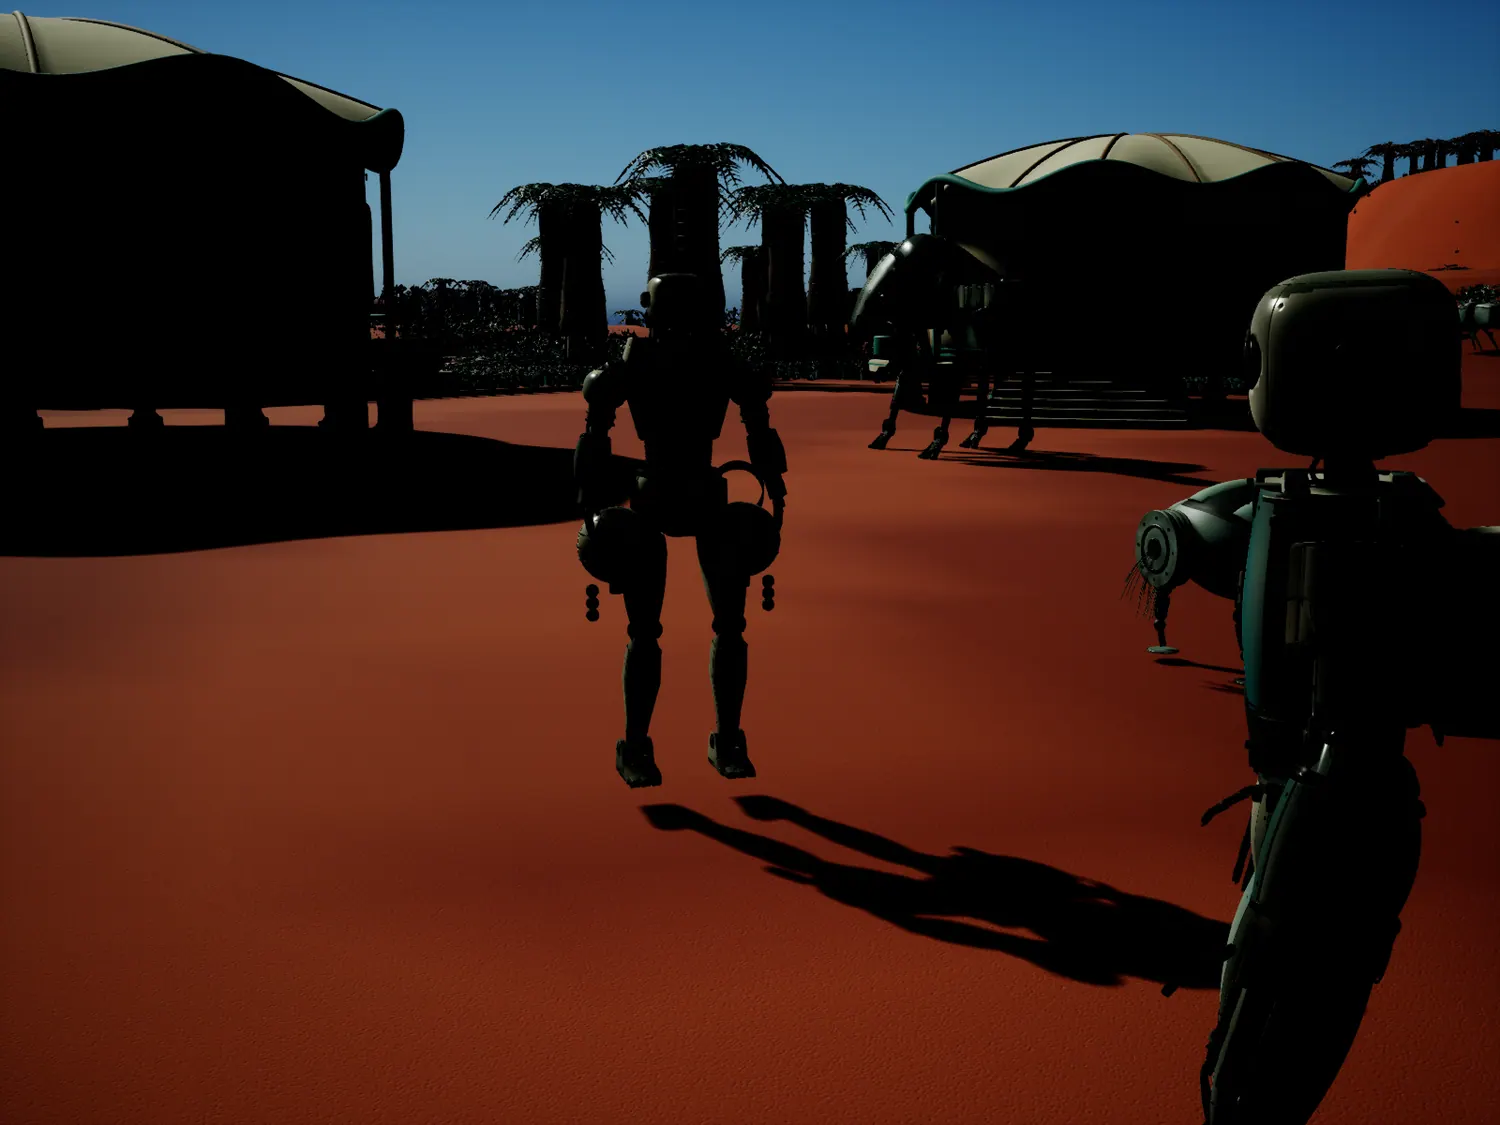
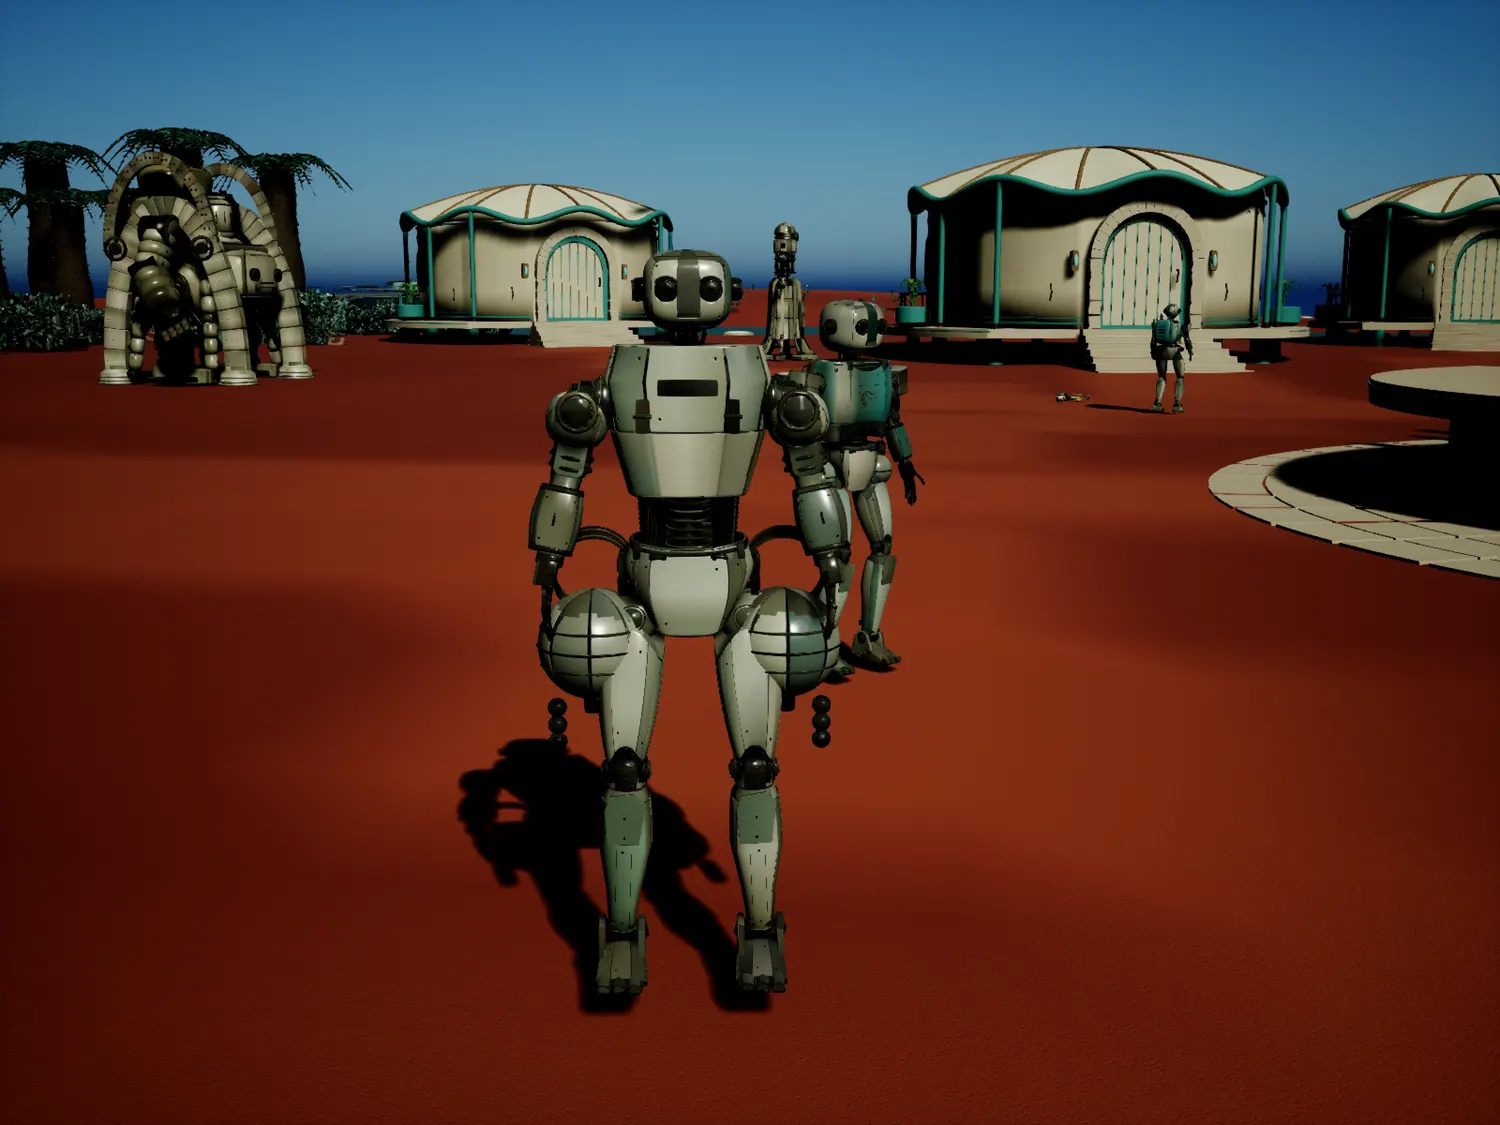
Besseres Licht auf der Karte und ein Gruppenbild: alle 52 Körper winken

diff --git a/index.html b/index.html
@@ -153,6 +153,13 @@ dialog::backdrop{background:rgba(4,8,10,.86);backdrop-filter:blur(6px)}
 .d-blaettern{display:flex;justify-content:space-between;gap:1rem;margin-top:2rem;padding-top:1.2rem;border-top:1px solid var(--linie)}
 .d-blaettern button{font-family:var(--mono);font-size:.7rem;letter-spacing:.1em;text-transform:uppercase;color:var(--text2)}
 .d-blaettern button:hover{color:#fff}
+/* Gruppenbild über die ganze Breite */
+.gruppenbild{margin:2rem 0 0}
+.gruppenbild .bild-rahmen{display:block}
+.gruppenbild img{width:100%;cursor:zoom-in}
+.gruppenbild .ki{right:clamp(10px,2vw,24px);bottom:clamp(10px,2vw,22px)}
+.gruppenbild figcaption{font-family:var(--mono);font-size:.72rem;line-height:1.6;color:var(--text2);
+  max-width:var(--maxw);margin:.9rem auto 0;padding:0 clamp(16px,4vw,48px)}
 /* Bildergalerien */
 .galerie{display:grid;grid-template-columns:repeat(auto-fit,minmax(300px,1fr));gap:clamp(12px,1.6vw,20px)}
 .galerie figure{margin:0;display:flex;flex-direction:column}
@@ -189,7 +196,7 @@ dialog::backdrop{background:rgba(4,8,10,.86);backdrop-filter:blur(6px)}
 <body>
 <div class="hintergrund"><div class="koernung"></div></div>
 <header class="nav"><a class="marke" href="#start">Figuren<span>schau</span></a><nav>
-<a href="#aufstellung">Aufstellung</a><a href="#figuren">Alle Figuren</a><a href="#karte">Auf der Karte</a>
+<a href="#aufstellung">Aufstellung</a><a href="#alle">Alle zusammen</a><a href="#figuren">Alle Figuren</a><a href="#karte">Auf der Karte</a>
 <a href="#werkzeug">Werkzeuge</a><a href="#werkstatt">Werkstatt</a><a href="#stand">Stand</a>
 <a class="zurueck" href="https://marsandhope.github.io/">Mars &amp; Hope →</a></nav></header>
 <main>
@@ -241,6 +248,28 @@ auf dem Boden stehen. Tillus überragt die Reihe um mehr als das Zehnfache desse
 </div>
 </section>
 
+<section class="abschnitt" id="alle">
+<div class="innen abschnitt-kopf reveal">
+<p class="kicker">Alle zusammen</p>
+<h2>Einmal antreten, bitte</h2>
+<div class="lesen"><p>Einmal alle auf einem Bild: zweiundfünfzig Körper, in sechs Reihen nach Größe
+aufgestellt, die Kleinsten vorn, Tillus und die großen Rahmen hinten – und alle winken. Wer keinen
+Winke-Clip besitzt, zeigt die Bewegung, die er hat: Tillus fährt den Kranarm aus, RIEGEL klappt die
+Deflektoren, CANTOR staunt, MORA sieht sich um.</p>
+<p>Zusammengesetzt ist daran nichts. Eine Kamera, eine Aufnahme, aufgestellt und ausgelöst im laufenden
+Editor, auf demselben Boden, auf dem die Figuren auch im Spiel stehen. FUNKE fehlt in der Reihe, weil er
+LUMENs Körper trägt und dort schon steht.</p></div>
+</div>
+<figure class="gruppenbild reveal">
+<span class="bild-rahmen"><img loading="lazy" src="bilder/karte/gruppe.webp"
+ alt="Alle zweiundfünfzig gebauten Körper stehen in sechs Reihen vor dem Dorf der Gezeitenflechter und winken"
+ data-gross="bilder/karte/gruppe.webp" data-text="Alle zweiundfünfzig Körper vor dem Dorf der Gezeitenflechter">
+<span class="ki" title="KI-generiertes Bild">KI</span></span>
+<figcaption>Zweiundfünfzig Körper vor dem Dorf der Gezeitenflechter, sechs Reihen nach Größe · eine Aufnahme aus dem
+laufenden Unreal-Editor auf L_Mars_Drei_Doerfer_V7</figcaption>
+</figure>
+</section>
+
 <section class="abschnitt" id="figuren">
 <div class="innen">
 <div class="abschnitt-kopf reveal">
@@ -271,7 +300,10 @@ Ein Klick öffnet die vier Ansichten, das Originalblatt daneben und alles, was d
 <div class="lesen"><p>Diese sechs Aufnahmen stammen nicht aus einem Renderstudio, sondern aus dem laufenden
 Editor: die Figuren stehen zwischen den Kuppeln auf <span class="mono">L_Mars_Drei_Doerfer_V7</span>,
 mit dem Boden unter den Füßen, den sie auch im Spiel haben. Ein Lauf von fünfundsiebzig Sekunden hat für
-siebenunddreißig Bewohnersteuerungen Wegstrecken, Ankünfte und Bodenkontakt mitgeschrieben.</p></div>
+siebenunddreißig Bewohnersteuerungen Wegstrecken, Ankünfte und Bodenkontakt mitgeschrieben.</p>
+<p>Für die Aufnahme dreht sich jede Figur zur Kamera, und die Kamera geht dorthin, wo die tiefe
+Nachmittagssonne herkommt. Vorher stand sie gegen das Licht – dann waren die Figuren schwarze
+Umrisse vor einem schönen Himmel.</p></div>
 </div>
 <div class="galerie reveal"><figure><span class="bild-rahmen"><img loading="lazy" src="bilder/karte/Unreal_aren.webp" alt="AREN auf der Dorfkarte in Unreal" data-gross="bilder/karte/Unreal_aren.webp" data-text="AREN auf L_Mars_Drei_Doerfer_V7"><span class="ki" title="KI-generiertes Bild">KI</span></span><figcaption>AREN auf L_Mars_Drei_Doerfer_V7</figcaption></figure><figure><span class="bild-rahmen"><img loading="lazy" src="bilder/karte/Unreal_ion.webp" alt="ION auf der Dorfkarte in Unreal" data-gross="bilder/karte/Unreal_ion.webp" data-text="ION auf L_Mars_Drei_Doerfer_V7"><span class="ki" title="KI-generiertes Bild">KI</span></span><figcaption>ION auf L_Mars_Drei_Doerfer_V7</figcaption></figure><figure><span class="bild-rahmen"><img loading="lazy" src="bilder/karte/Unreal_rhea.webp" alt="RHEA auf der Dorfkarte in Unreal" data-gross="bilder/karte/Unreal_rhea.webp" data-text="RHEA auf L_Mars_Drei_Doerfer_V7"><span class="ki" title="KI-generiertes Bild">KI</span></span><figcaption>RHEA auf L_Mars_Drei_Doerfer_V7</figcaption></figure><figure><span class="bild-rahmen"><img loading="lazy" src="bilder/karte/Unreal_riegel.webp" alt="RIEGEL auf der Dorfkarte in Unreal" data-gross="bilder/karte/Unreal_riegel.webp" data-text="RIEGEL auf L_Mars_Drei_Doerfer_V7"><span class="ki" title="KI-generiertes Bild">KI</span></span><figcaption>RIEGEL auf L_Mars_Drei_Doerfer_V7</figcaption></figure><figure><span class="bild-rahmen"><img loading="lazy" src="bilder/karte/Unreal_rusk.webp" alt="RUSK auf der Dorfkarte in Unreal" data-gross="bilder/karte/Unreal_rusk.webp" data-text="RUSK auf L_Mars_Drei_Doerfer_V7"><span class="ki" title="KI-generiertes Bild">KI</span></span><figcaption>RUSK auf L_Mars_Drei_Doerfer_V7</figcaption></figure><figure><span class="bild-rahmen"><img loading="lazy" src="bilder/karte/Unreal_tillus.webp" alt="TILLUS auf der Dorfkarte in Unreal" data-gross="bilder/karte/Unreal_tillus.webp" data-text="TILLUS auf L_Mars_Drei_Doerfer_V7"><span class="ki" title="KI-generiertes Bild">KI</span></span><figcaption>TILLUS auf L_Mars_Drei_Doerfer_V7</figcaption></figure></div>
 </div>
